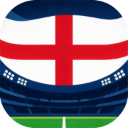
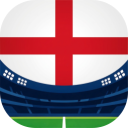
Новая иконка и шапка без логотипа
- иконка: флаг Англии и стадион (build/icon-source.jpg);
- генератор подбирает по видимым участкам края гладкую фигуру (квадрат
  со скруглёнными углами или суперэллипс) и строит маску по ней — без
  выемок там, где белое поле флага сливается с белым фоном;
- из шапки страницы убрана иконка.

diff --git a/src/web/styles.css b/src/web/styles.css
@@ -44,7 +44,6 @@ svg { width: 18px; height: 18px; fill: none; stroke: currentColor; stroke-width:
 .top { position: sticky; top: 0; z-index: 10; background: var(--bg); padding-top: max(12px, env(safe-area-inset-top)); }
 .bar { display: flex; align-items: center; gap: 8px; }
 .brand { display: flex; align-items: center; gap: 10px; flex: 1; min-width: 0; }
-.brand img { border-radius: 8px; flex: none; }
 .brand b { display: block; font-size: 16px; line-height: 1.1; }
 .brand small { color: var(--muted); font-size: 12px; }
 .icon-btn, .status { display: inline-flex; align-items: center; justify-content: center; gap: 6px; height: 34px;

diff --git a/src/web/index.html b/src/web/index.html
@@ -13,7 +13,6 @@
   <header class="top">
     <div class="bar">
       <div class="brand">
-        <img src="icon.png" alt="" width="28" height="28">
         <div><b>Матч-центр</b><small>Английский футбол</small></div>
       </div>
       <button class="status" id="status" type="button" aria-haspopup="dialog" aria-expanded="false">
